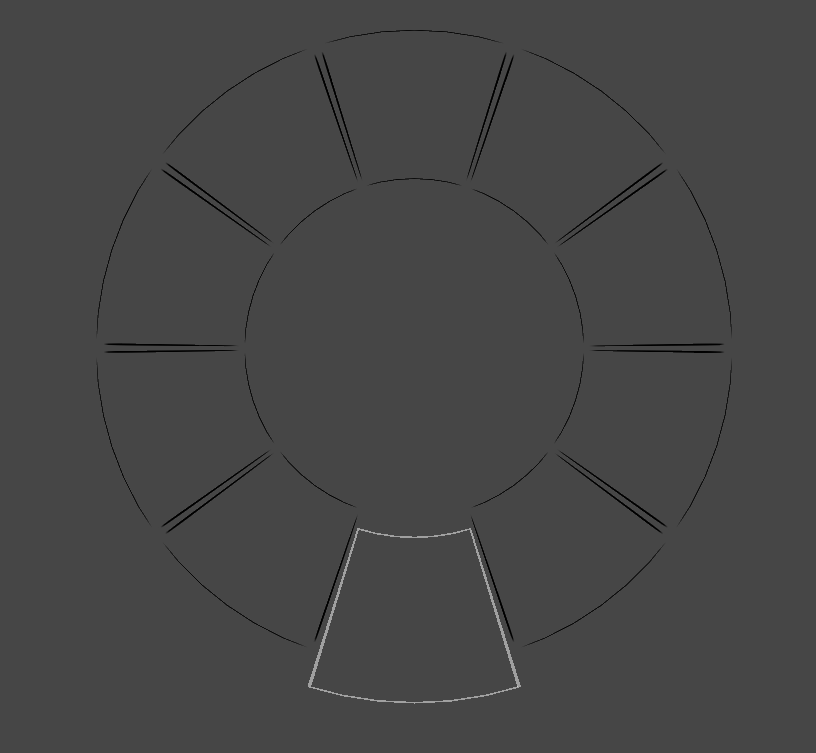
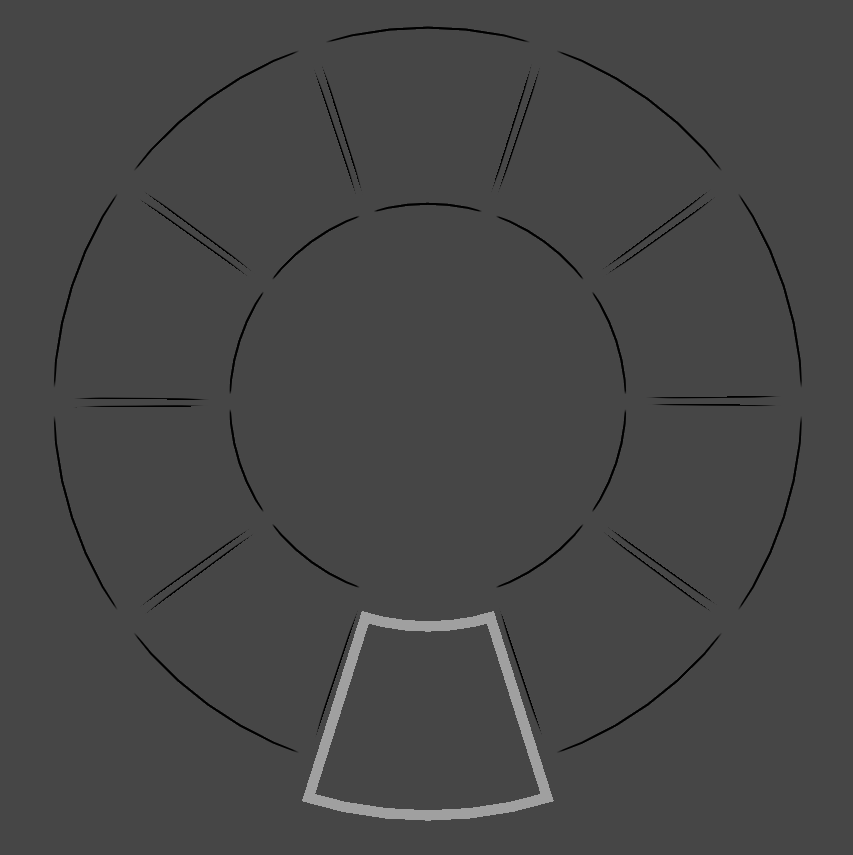
fix (unify) border width

diff --git a/Runtime/UICircleSegmented.cs b/Runtime/UICircleSegmented.cs
@@ -10,7 +10,7 @@ namespace mitaywalle.UICircleSegmentedNamespace
 		Handle,
 		HandleInverted,
 	}
-	
+
 	public enum eFillDeep
 	{
 		Floating,
@@ -44,7 +44,7 @@ namespace mitaywalle.UICircleSegmentedNamespace
 		[Range(1, 360), SerializeField] private int m_SegmentsCount = 360;
 		[Range(1, 360), SerializeField] private int m_SegmentsPerSpriteCount = 1;
 		[SerializeField, Range(-10, 10)] private float m_segmentDegreeOffset;
-		[SerializeField, Range(0,5)] private float m_border;
+		[SerializeField, Range(0, 5)] private float m_border;
 		[SerializeField] private UnityEngine.Gradient m_Gradient = CreateDefaultValidGradient();
 		[SerializeField] private UnityEngine.Gradient m_Diagonal_Gradient = CreateDefaultValidGradient();
 		[SerializeField, Range(-360, 360)] private float m_GradientDegreeOffset;
@@ -167,7 +167,6 @@ namespace mitaywalle.UICircleSegmentedNamespace
 
 			bool isFillFloating = m_fillDeep == eFillDeep.Floating;
 			bool isFillPerVertex = m_fillDeep == eFillDeep.PerVertex || m_fillDeep == eFillDeep.Floating;
-			
             #endregion
 
 			for (int i = 0; i < visibleSegmentsCount; i++)
@@ -186,10 +185,10 @@ namespace mitaywalle.UICircleSegmentedNamespace
 				if (!hasPreviousSegments && i < lastSegmentIndex) continue;
 				if (!hasNextSegments && i > lastSegmentIndex) continue;
 				if (!hasHandleSegment && isLast) continue;
-				
+
 				if (isOneStepSegment)
 				{
-					DrawSegment(currentDegrees, nextDegrees, outer, inner, vh, 0, 1, m_border>0,segmentFill);
+					DrawSegment(currentDegrees, nextDegrees, outer, inner, vh, 0, 1, segmentFill);
 				}
 				else
 				{
@@ -222,7 +221,7 @@ namespace mitaywalle.UICircleSegmentedNamespace
 
 						float uvStart = (float)j / m_SegmentsPerSpriteCount;
 						float uvEnd = (float)(j + 1) / m_SegmentsPerSpriteCount;
-						DrawSegment(degreesStart, degreesEnd, outer, inner, vh, uvStart, uvEnd, m_border>0, subSegmentT);
+						DrawSegment(degreesStart, degreesEnd, outer, inner, vh, uvStart, uvEnd, subSegmentT);
 						degreesStart += degreesDelta;
 						degreesEnd += degreesDelta;
 					}
@@ -246,32 +245,57 @@ namespace mitaywalle.UICircleSegmentedNamespace
 			return m_Gradient.Evaluate(t) * m_Diagonal_Gradient.Evaluate(t2) * color;
 		}
 
-		protected void DrawSegment(float degreesStart, float degreesEnd, float outer, float inner, VertexHelper vh, float uvStart, float uvEnd,bool wireframe, float t = 1)
+		protected void DrawSegment(float degreesStart, float degreesEnd, float outer, float inner, VertexHelper vh, float uvStart, float uvEnd, float t = 1)
 		{
+			bool wireframe = this.m_border > 0;
+
+			// L = 2 * pi * radius * degree / 360
+			// degree = L / pi / radius * 180 
+
+			var borderDegree = -m_border / Mathf.PI / (outer + m_border) * 180;
+			var borderDegreeInner = -m_border / Mathf.PI / (inner - m_border) * 180;
+			float t1 = borderDegreeInner/(degreesEnd-degreesStart);
+			float t2 = borderDegree/(degreesEnd-degreesStart);
+			
 			if (!wireframe)
 			{
-				DrawSegment(degreesStart, degreesEnd, outer, inner, vh, uvStart, uvEnd, t);
+				DrawSegmentQuad(degreesStart, degreesEnd, outer, inner, vh, uvStart, uvEnd, t);
 			}
 			else
 			{
 				if (uvStart == 0)
 				{
-					DrawSegment(degreesStart, degreesStart+m_border, outer+m_border, inner-m_border, vh, 0, 1, t);
+					
+					DrawSegmentQuad(degreesStart, degreesEnd, outer + m_border, inner - m_border, vh, 0, 1, t1, t2);
 				}
 				if (uvEnd == 1)
 				{
-					DrawSegment(degreesEnd-m_border, degreesEnd, outer+m_border, inner-m_border, vh, 0, 1, t);
+					DrawSegmentQuad(degreesStart, degreesEnd, outer + m_border, inner - m_border, vh, 0, 1, t1, t2,true);
 				}
-				DrawSegment(degreesStart, degreesEnd, outer, outer+m_border, vh, uvStart, uvEnd, t);
-				DrawSegment(degreesStart, degreesEnd, inner-m_border, inner, vh, uvStart, uvEnd, t);
+				DrawSegmentQuad(degreesStart, degreesEnd, outer, outer + m_border, vh, uvStart, uvEnd, t, degreesEnd);
+				DrawSegmentQuad(degreesStart, degreesEnd, inner - m_border, inner, vh, uvStart, uvEnd, t, degreesEnd);
 			}
 		}
-		protected void DrawSegment(float degreesStart, float degreesEnd, float outer, float inner, VertexHelper vh, float uvStart, float uvEnd, float t = 1)
+		protected void DrawSegmentQuad(float degreesStart, float degreesEnd, float outer, float inner, VertexHelper vh, float uvStart, float uvEnd, float t = 1, float t2 = float.MinValue,bool inverseLerp = false)
 		{
-			_positionsTemp[0] = DataToPosition(outer, degreesStart);
-			_positionsTemp[1] = DataToPosition(inner, degreesStart);
-			_positionsTemp[2] = DataToPosition(inner, _positionsTemp[1], degreesEnd, t);
-			_positionsTemp[3] = DataToPosition(outer, _positionsTemp[0], degreesEnd, t);
+			t2 = t2 == float.MinValue ? t : t2;
+
+			if (inverseLerp)
+			{
+				_positionsTemp[3] = DataToPosition(outer, degreesEnd);
+				_positionsTemp[2] = DataToPosition(inner, degreesEnd);
+				_positionsTemp[1] = DataToPosition(inner, _positionsTemp[2], degreesStart, t);
+				_positionsTemp[0] = DataToPosition(outer, _positionsTemp[3], degreesStart, t2);	
+			}
+			else
+			{
+				_positionsTemp[0] = DataToPosition(outer, degreesStart);
+				_positionsTemp[1] = DataToPosition(inner, degreesStart);
+				_positionsTemp[2] = DataToPosition(inner, _positionsTemp[1], degreesEnd, t);
+				_positionsTemp[3] = DataToPosition(outer, _positionsTemp[0], degreesEnd, t2);
+			}
+			
+
 			uvEnd = Mathf.Lerp(uvStart, uvEnd, t);
 
 			_uvTemp[2] = new Vector2(uvEnd, 0);
